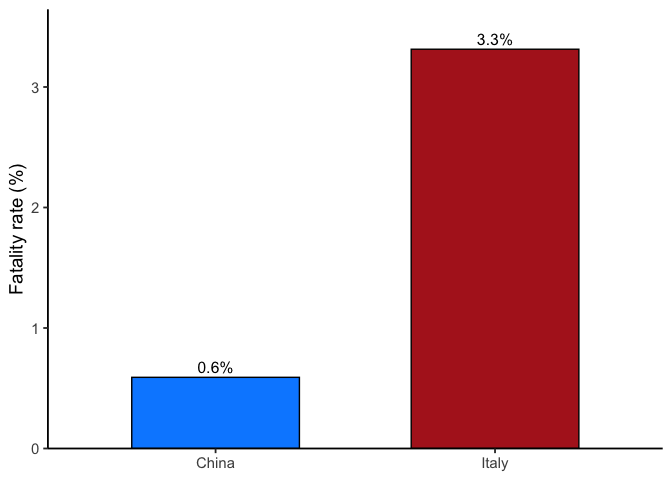
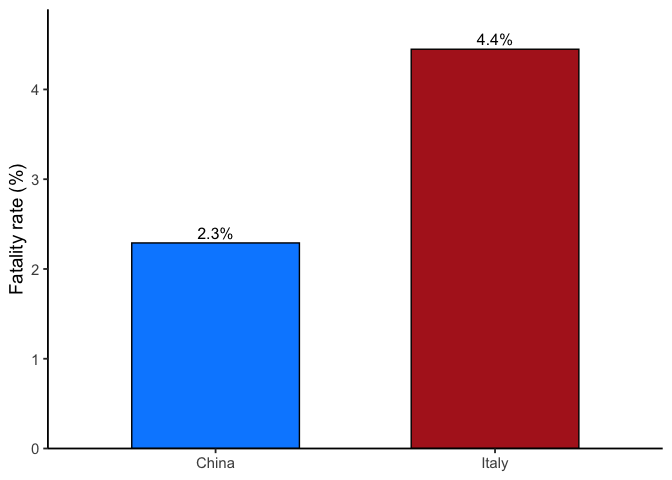
Ch11 Simpson's paradox: real China/Italy case counts replace invented numbers
The COVID table used made-up counts with fractional deaths. It now uses
Table III of von Kügelgen et al. (2021) supplement: China CCDC (Feb 17, 2020)
and Italy ISS (Mar 9, 2020). China 0-9 = 416 cases (table prints 0/0, a typo;
the dataset and the 44,672 total confirm 416). Rates are computed from counts.
Text, captions and alt text updated: 4.4% vs 2.3% overall; China higher in
every band except 0-9, where neither country recorded a death.

Changed region(s): [[0.1875, 0.4688, 0.4688, 0.8125], [0.6875, 0.0625, 0.75, 0.0938], [0.0312, 0.1562, 0.0625, 0.1875]]

diff --git a/docs/11-ANCOVA.html b/docs/11-ANCOVA.html
@@ -165,7 +165,7 @@ window.Quarto = {
 <meta property="og:description" content="">
 <meta property="og:image" content="11-ANCOVA_files/figure-html/fig-simpson-covid-overall-1.png">
 <meta property="og:site_name" content="Statistics for Environmental Science">
-<meta property="og:image:alt" content="Bar chart of the crude case fatality rate with all ages combined. Italy's bar, labeled 3.3 percent, is far taller than China's, labeled 0.6 percent.">
+<meta property="og:image:alt" content="Bar chart of the crude case fatality rate with all ages combined. Italy's bar, labeled 4.4 percent, is nearly twice as tall as China's, labeled 2.3 percent.">
 </head>
 
 <body class="nav-sidebar floating quarto-light">
@@ -369,14 +369,14 @@ window.Quarto = {
 <section id="why-adjust-for-anything" class="level2" data-number="11.1">
 <h2 data-number="11.1" class="anchored" data-anchor-id="why-adjust-for-anything"><span class="header-section-number">11.1</span> Why adjust for anything?</h2>
 <p>The cleanest illustration is a result called <strong>Simpson’s paradox</strong>, where a pattern in combined data reverses once you split the data into meaningful groups.</p>
-<p>During the COVID-19 pandemic, early data showed that Italy’s overall case fatality rate was higher than China’s. But once researchers <em>disaggregated by age group,</em> the trend flipped. Within every age group, the fatality rate was higher in China. The apparent contradiction was explained by differences in the age distribution of cases <span class="citation" data-cites="vonkugelgen2021">(<a href="references.html#ref-vonkugelgen2021" role="doc-biblioref"><span class="nocase">von Kügelgen et al.</span> 2021</a>)</span>.</p>
-<p>Using case fatality rate (CFR), here are some illustrative numbers (made up for teaching).</p>
+<p>During the COVID-19 pandemic, early data showed that Italy’s overall case fatality rate was higher than China’s. But once researchers <em>disaggregated by age group,</em> the trend flipped. In every age group except the youngest, where neither country recorded a death, the fatality rate was higher in China. The apparent contradiction was explained by differences in the age distribution of cases <span class="citation" data-cites="vonkugelgen2021">(<a href="references.html#ref-vonkugelgen2021" role="doc-biblioref"><span class="nocase">von Kügelgen et al.</span> 2021</a>)</span>.</p>
+<p>The numbers below are the ones that study compared, China’s cases and deaths by age as reported on February 17, 2020, and Italy’s as reported on March 9, 2020. The case fatality rate (CFR) is the percentage of confirmed cases that ended in death.</p>
 <div class="cell">
 <div class="cell-output-display">
-<div id="fig-simpson-covid-overall" class="quarto-float quarto-figure quarto-figure-center anchored" alt="Bar chart of the crude case fatality rate with all ages combined. Italy's bar, labeled 3.3 percent, is far taller than China's, labeled 0.6 percent.">
+<div id="fig-simpson-covid-overall" class="quarto-float quarto-figure quarto-figure-center anchored" alt="Bar chart of the crude case fatality rate with all ages combined. Italy's bar, labeled 4.4 percent, is nearly twice as tall as China's, labeled 2.3 percent.">
 <figure class="quarto-float quarto-float-fig figure">
 <div aria-describedby="fig-simpson-covid-overall-caption-0ceaefa1-69ba-4598-a22c-09a6ac19f8ca">
-<img src="11-ANCOVA_files/figure-html/fig-simpson-covid-overall-1.png" class="img-fluid figure-img" style="width:75.0%" alt="Bar chart of the crude case fatality rate with all ages combined. Italy's bar, labeled 3.3 percent, is far taller than China's, labeled 0.6 percent.">
+<img src="11-ANCOVA_files/figure-html/fig-simpson-covid-overall-1.png" class="img-fluid figure-img" style="width:75.0%" alt="Bar chart of the crude case fatality rate with all ages combined. Italy's bar, labeled 4.4 percent, is nearly twice as tall as China's, labeled 2.3 percent.">
 </div>
 <figcaption class="quarto-float-caption-bottom quarto-float-caption quarto-float-fig" id="fig-simpson-covid-overall-caption-0ceaefa1-69ba-4598-a22c-09a6ac19f8ca">
 Figure&nbsp;11.1: Crude case fatality rates. Italy appears to have a higher fatality rate than China when all cases are combined.
@@ -385,16 +385,16 @@ Figure&nbsp;11.1: Crude case fatality rates. Italy appears to have a higher fata
 </div>
 </div>
 </div>
-<p>At face value, Italy looks worse. Older people are much more likely to die from COVID than younger people. In these numbers, 15% of Italy’s cases aged 80 and over died, against 0.01% of those under 10. So we split cases into 10-year age bands. Within every band, China’s fatality rate is higher.</p>
+<p>At face value, Italy looks worse. Older people are much more likely to die from COVID than younger people. In these numbers, 13.2% of Italy’s cases aged 80 and over died, against none of the 43 cases under 10. So we split cases into 10-year age bands. Within every band where anyone died, China’s fatality rate is higher.</p>
 <div class="cell">
 <div class="cell-output-display">
-<div id="fig-simpson-by-age-group" class="quarto-float quarto-figure quarto-figure-center anchored" alt="Grouped bar chart of fatality rate by 10-year age band for China and Italy. Rates climb steeply with age in both countries, from near zero in the youngest bands to 18 percent for China and 15 percent for Italy at 80 and over, and China's bar is taller than Italy's in every band.">
+<div id="fig-simpson-by-age-group" class="quarto-float quarto-figure quarto-figure-center anchored" alt="Grouped bar chart of fatality rate by 10-year age band for China and Italy. Rates climb steeply with age in both countries, from zero in the youngest band to 14.8 percent for China and 13.2 percent for Italy at 80 and over, and China's bar is taller than Italy's in every band from 10 to 19 upward.">
 <figure class="quarto-float quarto-float-fig figure">
 <div aria-describedby="fig-simpson-by-age-group-caption-0ceaefa1-69ba-4598-a22c-09a6ac19f8ca">
-<img src="11-ANCOVA_files/figure-html/fig-simpson-by-age-group-1.png" class="img-fluid figure-img" style="width:75.0%" alt="Grouped bar chart of fatality rate by 10-year age band for China and Italy. Rates climb steeply with age in both countries, from near zero in the youngest bands to 18 percent for China and 15 percent for Italy at 80 and over, and China's bar is taller than Italy's in every band.">
+<img src="11-ANCOVA_files/figure-html/fig-simpson-by-age-group-1.png" class="img-fluid figure-img" style="width:75.0%" alt="Grouped bar chart of fatality rate by 10-year age band for China and Italy. Rates climb steeply with age in both countries, from zero in the youngest band to 14.8 percent for China and 13.2 percent for Italy at 80 and over, and China's bar is taller than Italy's in every band from 10 to 19 upward.">
 </div>
 <figcaption class="quarto-float-caption-bottom quarto-float-caption quarto-float-fig" id="fig-simpson-by-age-group-caption-0ceaefa1-69ba-4598-a22c-09a6ac19f8ca">
-Figure&nbsp;11.2: Fatality rates by age group (same made-up numbers). Within each age band, China’s CFR exceeds Italy’s.
+Figure&nbsp;11.2: Fatality rates by age group. In every age band where anyone died, China’s CFR exceeds Italy’s.
 </figcaption>
 </figure>
 </div>
@@ -404,7 +404,7 @@ Figure&nbsp;11.2: Fatality rates by age group (same made-up numbers). Within eac
 <div id="tbl-11simpsonrates" class="cell quarto-float quarto-figure quarto-figure-center anchored">
 <figure class="quarto-float quarto-float-tbl figure">
 <figcaption class="quarto-float-caption-top quarto-float-caption quarto-float-tbl" id="tbl-11simpsonrates-caption-0ceaefa1-69ba-4598-a22c-09a6ac19f8ca">
-Table&nbsp;11.1: Fatality rate (%) by age band, from the same made-up numbers. China’s rate is higher in every band, including the youngest, where the bars are too small to see.
+Table&nbsp;11.1: Fatality rate (%) by age band. China’s rate is higher in every band except 0–9, where neither country recorded a death. Several bands under 50 are too small to see in the figure.
 </figcaption>
 <div aria-describedby="tbl-11simpsonrates-caption-0ceaefa1-69ba-4598-a22c-09a6ac19f8ca">
 <div class="cell-output-display">
@@ -419,48 +419,48 @@ Table&nbsp;11.1: Fatality rate (%) by age band, from the same made-up numbers. C
 <tbody>
 <tr class="odd">
 <td style="text-align: left;">0–9</td>
-<td style="text-align: right;">0.01</td>
-<td style="text-align: right;">0.02</td>
+<td style="text-align: right;">0.0</td>
+<td style="text-align: right;">0.0</td>
 </tr>
 <tr class="even">
 <td style="text-align: left;">10–19</td>
-<td style="text-align: right;">0.02</td>
-<td style="text-align: right;">0.03</td>
+<td style="text-align: right;">0.0</td>
+<td style="text-align: right;">0.2</td>
 </tr>
 <tr class="odd">
 <td style="text-align: left;">20–29</td>
-<td style="text-align: right;">0.04</td>
-<td style="text-align: right;">0.05</td>
+<td style="text-align: right;">0.0</td>
+<td style="text-align: right;">0.2</td>
 </tr>
 <tr class="even">
 <td style="text-align: left;">30–39</td>
-<td style="text-align: right;">0.15</td>
-<td style="text-align: right;">0.20</td>
+<td style="text-align: right;">0.0</td>
+<td style="text-align: right;">0.2</td>
 </tr>
 <tr class="odd">
 <td style="text-align: left;">40–49</td>
-<td style="text-align: right;">0.40</td>
-<td style="text-align: right;">0.60</td>
+<td style="text-align: right;">0.1</td>
+<td style="text-align: right;">0.4</td>
 </tr>
 <tr class="even">
 <td style="text-align: left;">50–59</td>
-<td style="text-align: right;">1.00</td>
-<td style="text-align: right;">1.50</td>
+<td style="text-align: right;">0.2</td>
+<td style="text-align: right;">1.3</td>
 </tr>
 <tr class="odd">
 <td style="text-align: left;">60–69</td>
-<td style="text-align: right;">2.50</td>
-<td style="text-align: right;">3.50</td>
+<td style="text-align: right;">2.5</td>
+<td style="text-align: right;">3.6</td>
 </tr>
 <tr class="even">
 <td style="text-align: left;">70–79</td>
-<td style="text-align: right;">6.00</td>
-<td style="text-align: right;">8.00</td>
+<td style="text-align: right;">6.4</td>
+<td style="text-align: right;">8.0</td>
 </tr>
 <tr class="odd">
 <td style="text-align: left;">80+</td>
-<td style="text-align: right;">15.00</td>
-<td style="text-align: right;">18.00</td>
+<td style="text-align: right;">13.2</td>
+<td style="text-align: right;">14.8</td>
 </tr>
 </tbody>
 </table>
@@ -472,10 +472,10 @@ Table&nbsp;11.1: Fatality rate (%) by age band, from the same made-up numbers. C
 <p><a href="#tbl-11simpsonrates" class="quarto-xref">Table&nbsp;<span>11.1</span></a> lists the rates themselves. The reversal happens because Italy’s cases skew older while China’s skew younger. Italy therefore had a greater proportion of older people getting sick, which pulls Italy’s overall average up. Similarly, China’s average is pulled down because a greater proportion of younger people are getting sick. Aggregating without adjusting for age hid the within-group pattern entirely.</p>
 <div class="cell">
 <div class="cell-output-display">
-<div id="fig-age-distributions" class="quarto-float quarto-figure quarto-figure-center anchored" alt="Two bar charts side by side showing each country's share of cases in each 10-year age band. China's cases are concentrated in the bands under 50, while Italy's are spread toward older bands, with its largest shares between 40 and 59 and a sizable share at 80 and over.">
+<div id="fig-age-distributions" class="quarto-float quarto-figure quarto-figure-center anchored" alt="Two bar charts side by side showing each country's share of cases in each 10-year age band. China's cases are concentrated between 30 and 69, peaking at 50 to 59, while Italy's are concentrated from 50 upward, peaking at 70 to 79, with almost one in five cases at 80 and over.">
 <figure class="quarto-float quarto-float-fig figure">
 <div aria-describedby="fig-age-distributions-caption-0ceaefa1-69ba-4598-a22c-09a6ac19f8ca">
-<img src="11-ANCOVA_files/figure-html/fig-age-distributions-1.png" class="img-fluid figure-img" style="width:75.0%" alt="Two bar charts side by side showing each country's share of cases in each 10-year age band. China's cases are concentrated in the bands under 50, while Italy's are spread toward older bands, with its largest shares between 40 and 59 and a sizable share at 80 and over.">
+<img src="11-ANCOVA_files/figure-html/fig-age-distributions-1.png" class="img-fluid figure-img" style="width:75.0%" alt="Two bar charts side by side showing each country's share of cases in each 10-year age band. China's cases are concentrated between 30 and 69, peaking at 50 to 59, while Italy's are concentrated from 50 upward, peaking at 70 to 79, with almost one in five cases at 80 and over.">
 </div>
 <figcaption class="quarto-float-caption-bottom quarto-float-caption quarto-float-fig" id="fig-age-distributions-caption-0ceaefa1-69ba-4598-a22c-09a6ac19f8ca">
 Figure&nbsp;11.3: Case age distribution by country. Italy’s cases are older on average; China’s are younger.
